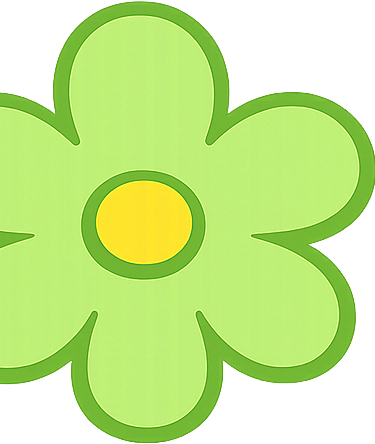
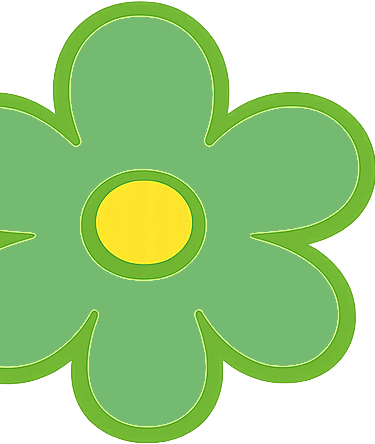
working homepage

diff --git a/app/page.tsx b/app/page.tsx
@@ -29,7 +29,7 @@ export default function Home() {
             </p>
             <p>
               Verder heb ik mijzelf ontwikkeld als professional in het werkveld.
-              Dit laat ik allemaal zien aan de hand van verschillende leeruitkomsten. Die weer zijn opgedeeld in verschillende bewijslasten.
+              Dit laat ik allemaal zien aan de hand van verschillende leeruitkomsten, die weer zijn opgedeeld in verschillende bewijslasten.
               Aan de hand van deze praktijkervaringen wil ik mijn laatste twee jaar van deze studie voor mijzelf beter in beeld brengen.
             </p>
           </div>
